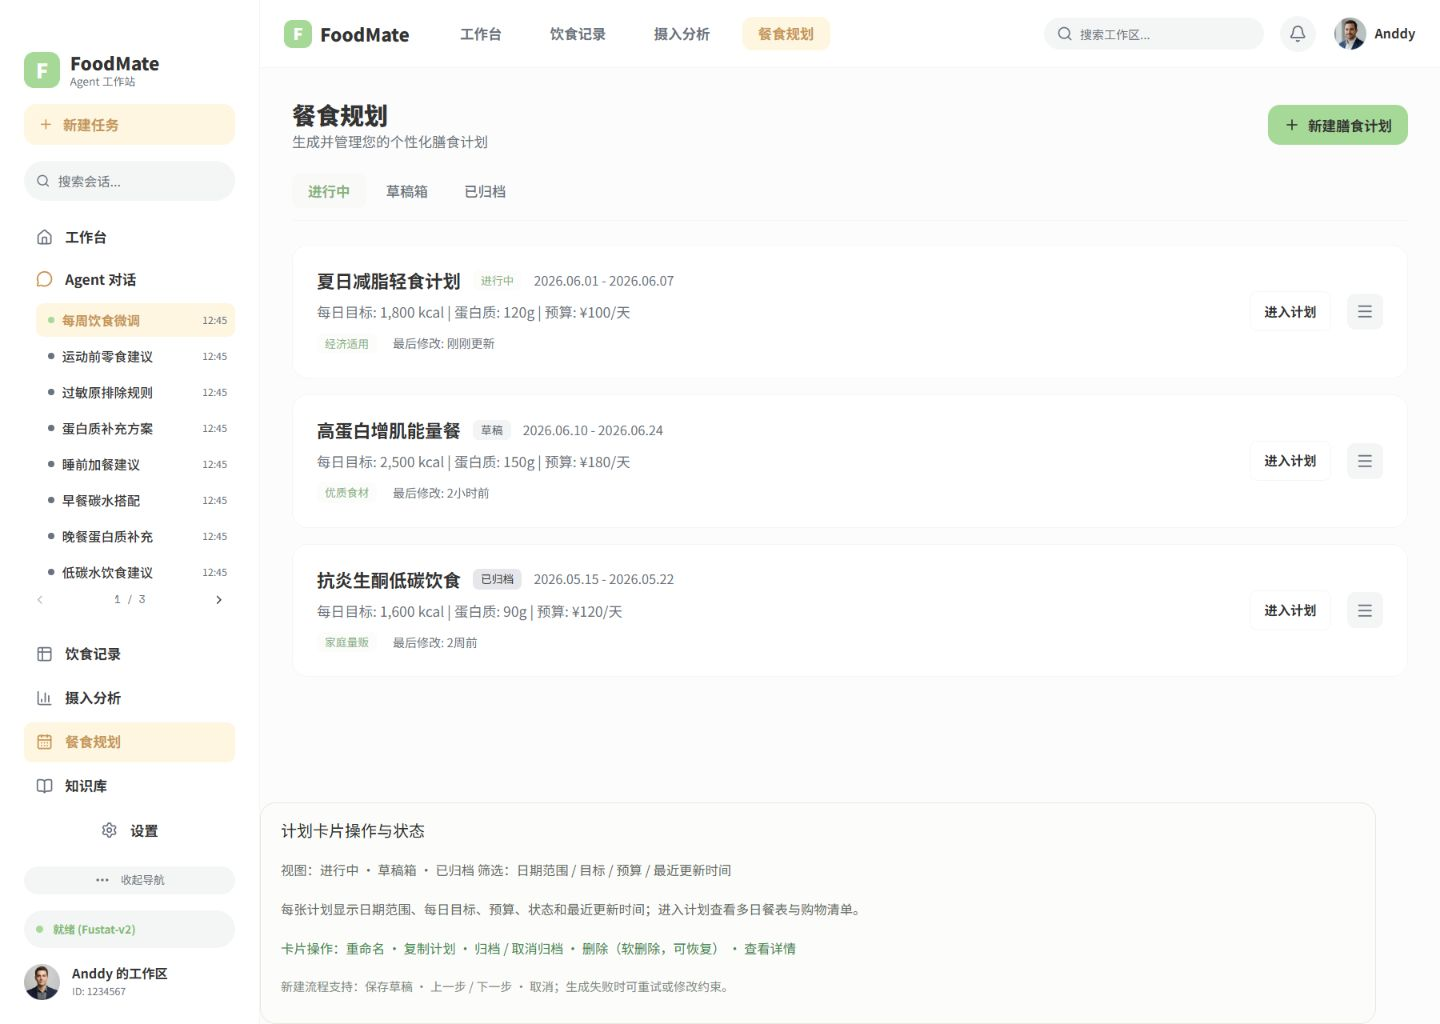
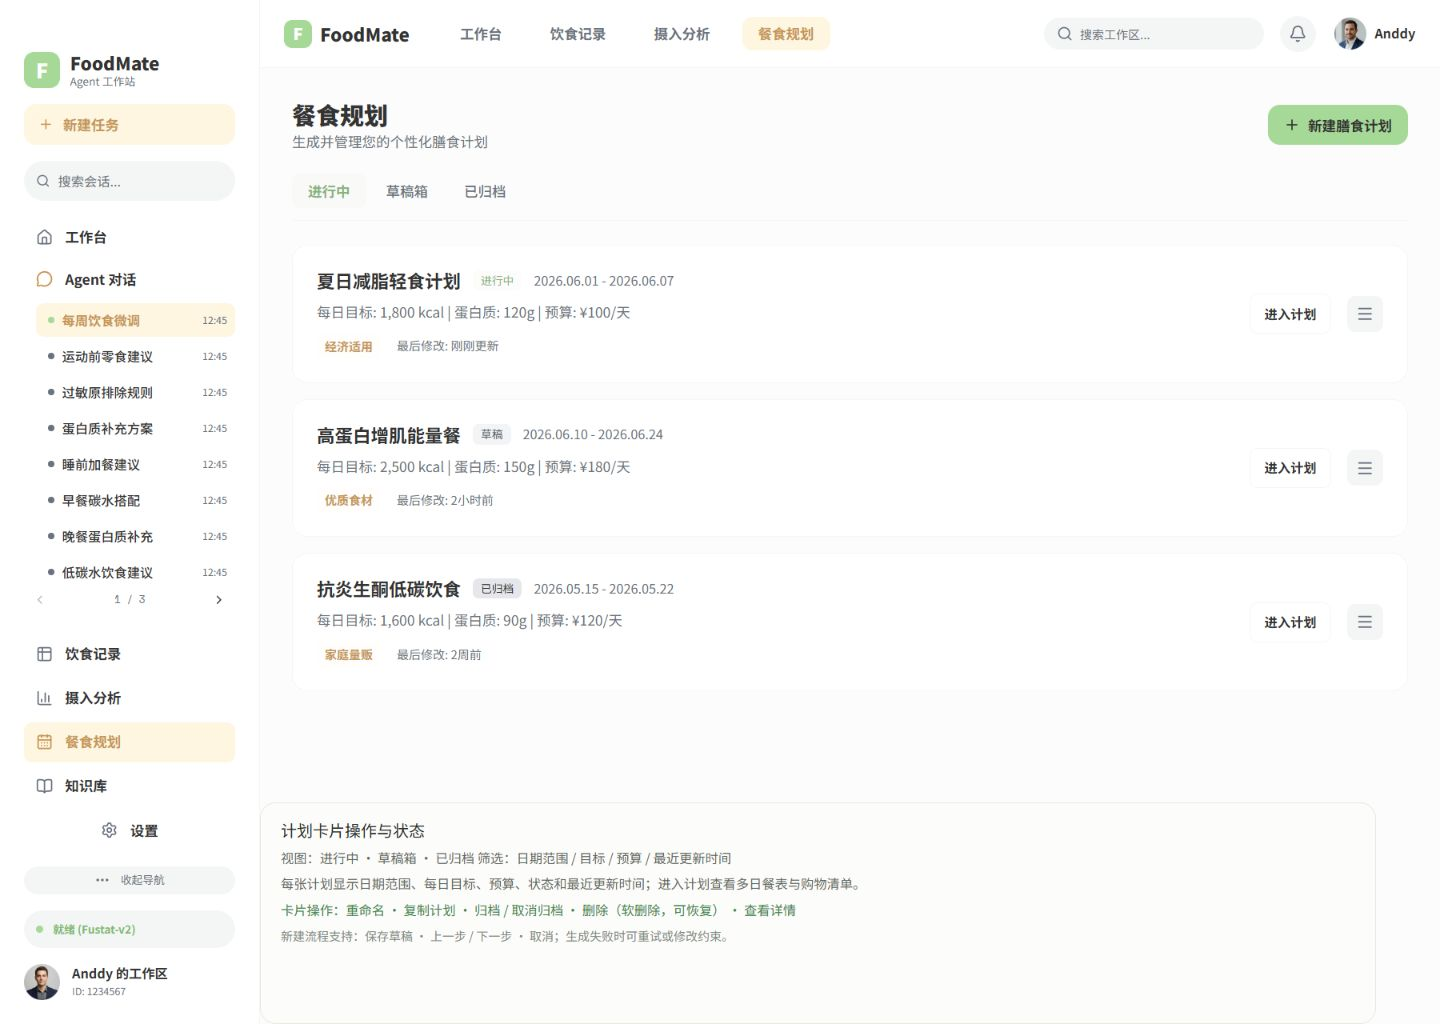
fix(餐食规划): 对齐计划卡标签样式

diff --git a/foodmate-ui/src/pages/PlanningPage/MealPlanningFlow.module.css b/foodmate-ui/src/pages/PlanningPage/MealPlanningFlow.module.css
@@ -195,10 +195,17 @@
   white-space: nowrap;
 }
 
-.planStatusactive,
-.planListMeta span {
+.planStatusactive {
   background: rgba(223, 238, 219, 0.1);
   color: #89b27c;
+}
+
+.planListMeta span {
+  background: rgba(255, 246, 226, 0.1);
+  color: #c79654;
+  font-size: 12px;
+  font-weight: 700;
+  line-height: normal;
 }
 
 .planStatusdraft {
@@ -272,6 +279,7 @@
 .lifecycleNote {
   display: grid;
   align-self: flex-start;
+  align-content: start;
   box-sizing: border-box;
   gap: 8px;
   margin-top: auto;

diff --git a/docxs/功能实现说明/Figma前端像素级验收报告.md b/docxs/功能实现说明/Figma前端像素级验收报告.md
@@ -123,7 +123,7 @@ Figma Design 页共有 105 张顶层画板。本轮已为 105 张画板建立独
 | 冲突解决 | `692:3375` | `/planning?state=conflict` | `meal-plan-conflict-figma.png` | `meal-plan-conflict-browser-stable-rgba.png` | 37.28% | 25.12 | `DIFF_REVIEW` |
 | 购物清单 | `692:3569` | `/planning?state=shopping-list` | `meal-plan-shopping-list-figma.png` | `meal-plan-shopping-list-browser-stable-rgba.png` | 24.35% | 17.23 | `DIFF_REVIEW` |
 | 生成中 | `692:3746` | `/planning?state=generating` | `meal-plan-generating-figma.png` | `meal-plan-generating-browser-stable-rgba.png` | 13.69% | 16.84 | `DIFF_REVIEW` |
-| 计划列表 | `692:2662` | `/planning?state=list` | `meal-plan-list-figma.png` | `meal-plan-list-browser-current-rgba.png` | 23.1109% | 18.70 | `DIFF_REVIEW` |
+| 计划列表 | `692:2662` | `/planning?state=list` | `meal-plan-list-figma.png` | `meal-plan-list-browser-current-rgba.png` | 26.1015% | 19.40 | `DIFF_REVIEW` |
 
 浏览器 smoke 已实际确认：向导步骤推进和取消生成、冲突方案应用、购物清单初始采购数量及导出反馈均可操作；七个入口均无页面级横向溢出。流程 fixture 只复现前端设计状态，不代表真实餐食生成、冲突解决、购物清单持久化或异步任务后端闭环完成。
 
@@ -538,6 +538,14 @@ Figma Design 页共有 105 张顶层画板。本轮已为 105 张画板建立独
 - [x] 浏览器实测三个操作组均为 `gap=16px`，无横向溢出；视口为 `1440×1024`、DPR `1.0000000149011612`、字体 `loaded`。
 - [x] 最新 PNG diff：`differentPixels=340784`、差异比例 `23.1109%`、`MAE=3.6961`、`RMSE=18.7010`、最大通道差异 `235`。差异比例局部重排后略升，但 MAE/RMSE 下降，且 `16px` 是 Figma 明确几何值，因此保留设计对齐结果。
 - [ ] 该画板继续保持 `DIFF_REVIEW`；不能以单一差异比例替代 Figma 几何证据，也不能标记整页 `PASS`。
+
+## 58. 2026-08-23 餐食规划列表信息标签样式复核
+
+- [x] 依据 Figma 节点 `692:2758`、`692:2775`、`692:2792`，将计划卡“经济适用/优质食材/家庭量贩”标签从共享状态样式中拆出，修正为 `12px`、粗体、`#c79654` 前景和 `rgba(255,246,226,0.1)` 背景。
+- [x] 说明面板固定高度下补充顶部内容对齐，保留 Figma 要求的 `gap=8px`，避免 CSS Grid 将空余高度分配到文字行之间。
+- [x] 浏览器实测标签样式与说明面板几何：标签 `font-size=12px`、`font-weight=700`、面板 `x=260,y=802,width=1116,height=222`；视口 `1440×1024`、DPR `1.0000000149011612`、字体 `loaded`。
+- [x] 最新 PNG diff：`differentPixels=384882`、差异比例 `26.1015%`、`MAE=3.8913`、`RMSE=19.4011`、最大通道差异 `234`。
+- [ ] 该画板仍保持 `DIFF_REVIEW`；该项按 Figma 样式值完成，不能因整页 diff 未下降而回退到错误的绿色 `11px` 标签。
 
 ## 60. 2026-08-23 Intake Analysis 当前版本验收证据更新
 

diff --git a/docxs/实现/前端实现指南.md b/docxs/实现/前端实现指南.md
@@ -1071,3 +1071,10 @@ Agent 空态以 Figma `687:219` 为唯一视觉来源，目标画板为 `1440×1
 - [x] 浏览器验收确认三个操作组均为 `gap=16px`，菜单按钮仍位于卡片右侧，视口 `1440×1024`、字体已加载、无横向溢出。
 - [x] 最新 PNG diff 为 `23.1109% / MAE 3.6961 / RMSE 18.7010`；差异比例较前一版本略升但 MAE/RMSE 改善，记录以 Figma 明确几何值为准。
 - [ ] 本项仍为局部视觉修正，整页继续 `DIFF_REVIEW`；全量页面迁移和 iconfont 实体资源登记尚未完成。
+
+## 59. 2026-08-23 餐食规划列表信息标签样式对齐
+
+- [x] 依据 Figma 节点 `692:2758`、`692:2775`、`692:2792`，将计划卡信息标签对齐为 `12px` 粗体、`#c79654` 和 `rgba(255,246,226,0.1)`；进行中/草稿/已归档状态徽章保持独立字号和颜色。
+- [x] 说明面板增加顶部内容对齐，避免固定 `222px` 高度下 Grid 拉伸文本行；面板几何仍为 Figma 的 `x=260,y=802,width=1116,height=222`。
+- [x] 最新 PNG diff 为 `26.1015% / MAE 3.8913 / RMSE 19.4011`，记录在 `meal-plan-list-current-diff.json` 和 `figma-105-diff-results.json#meal-plan-list`。
+- [ ] 本项仍只完成局部 Figma 样式对齐，整页保持 `DIFF_REVIEW`；iconfont 继续 `BLOCKED`，全量 shadcn 页面迁移仍未完成。
